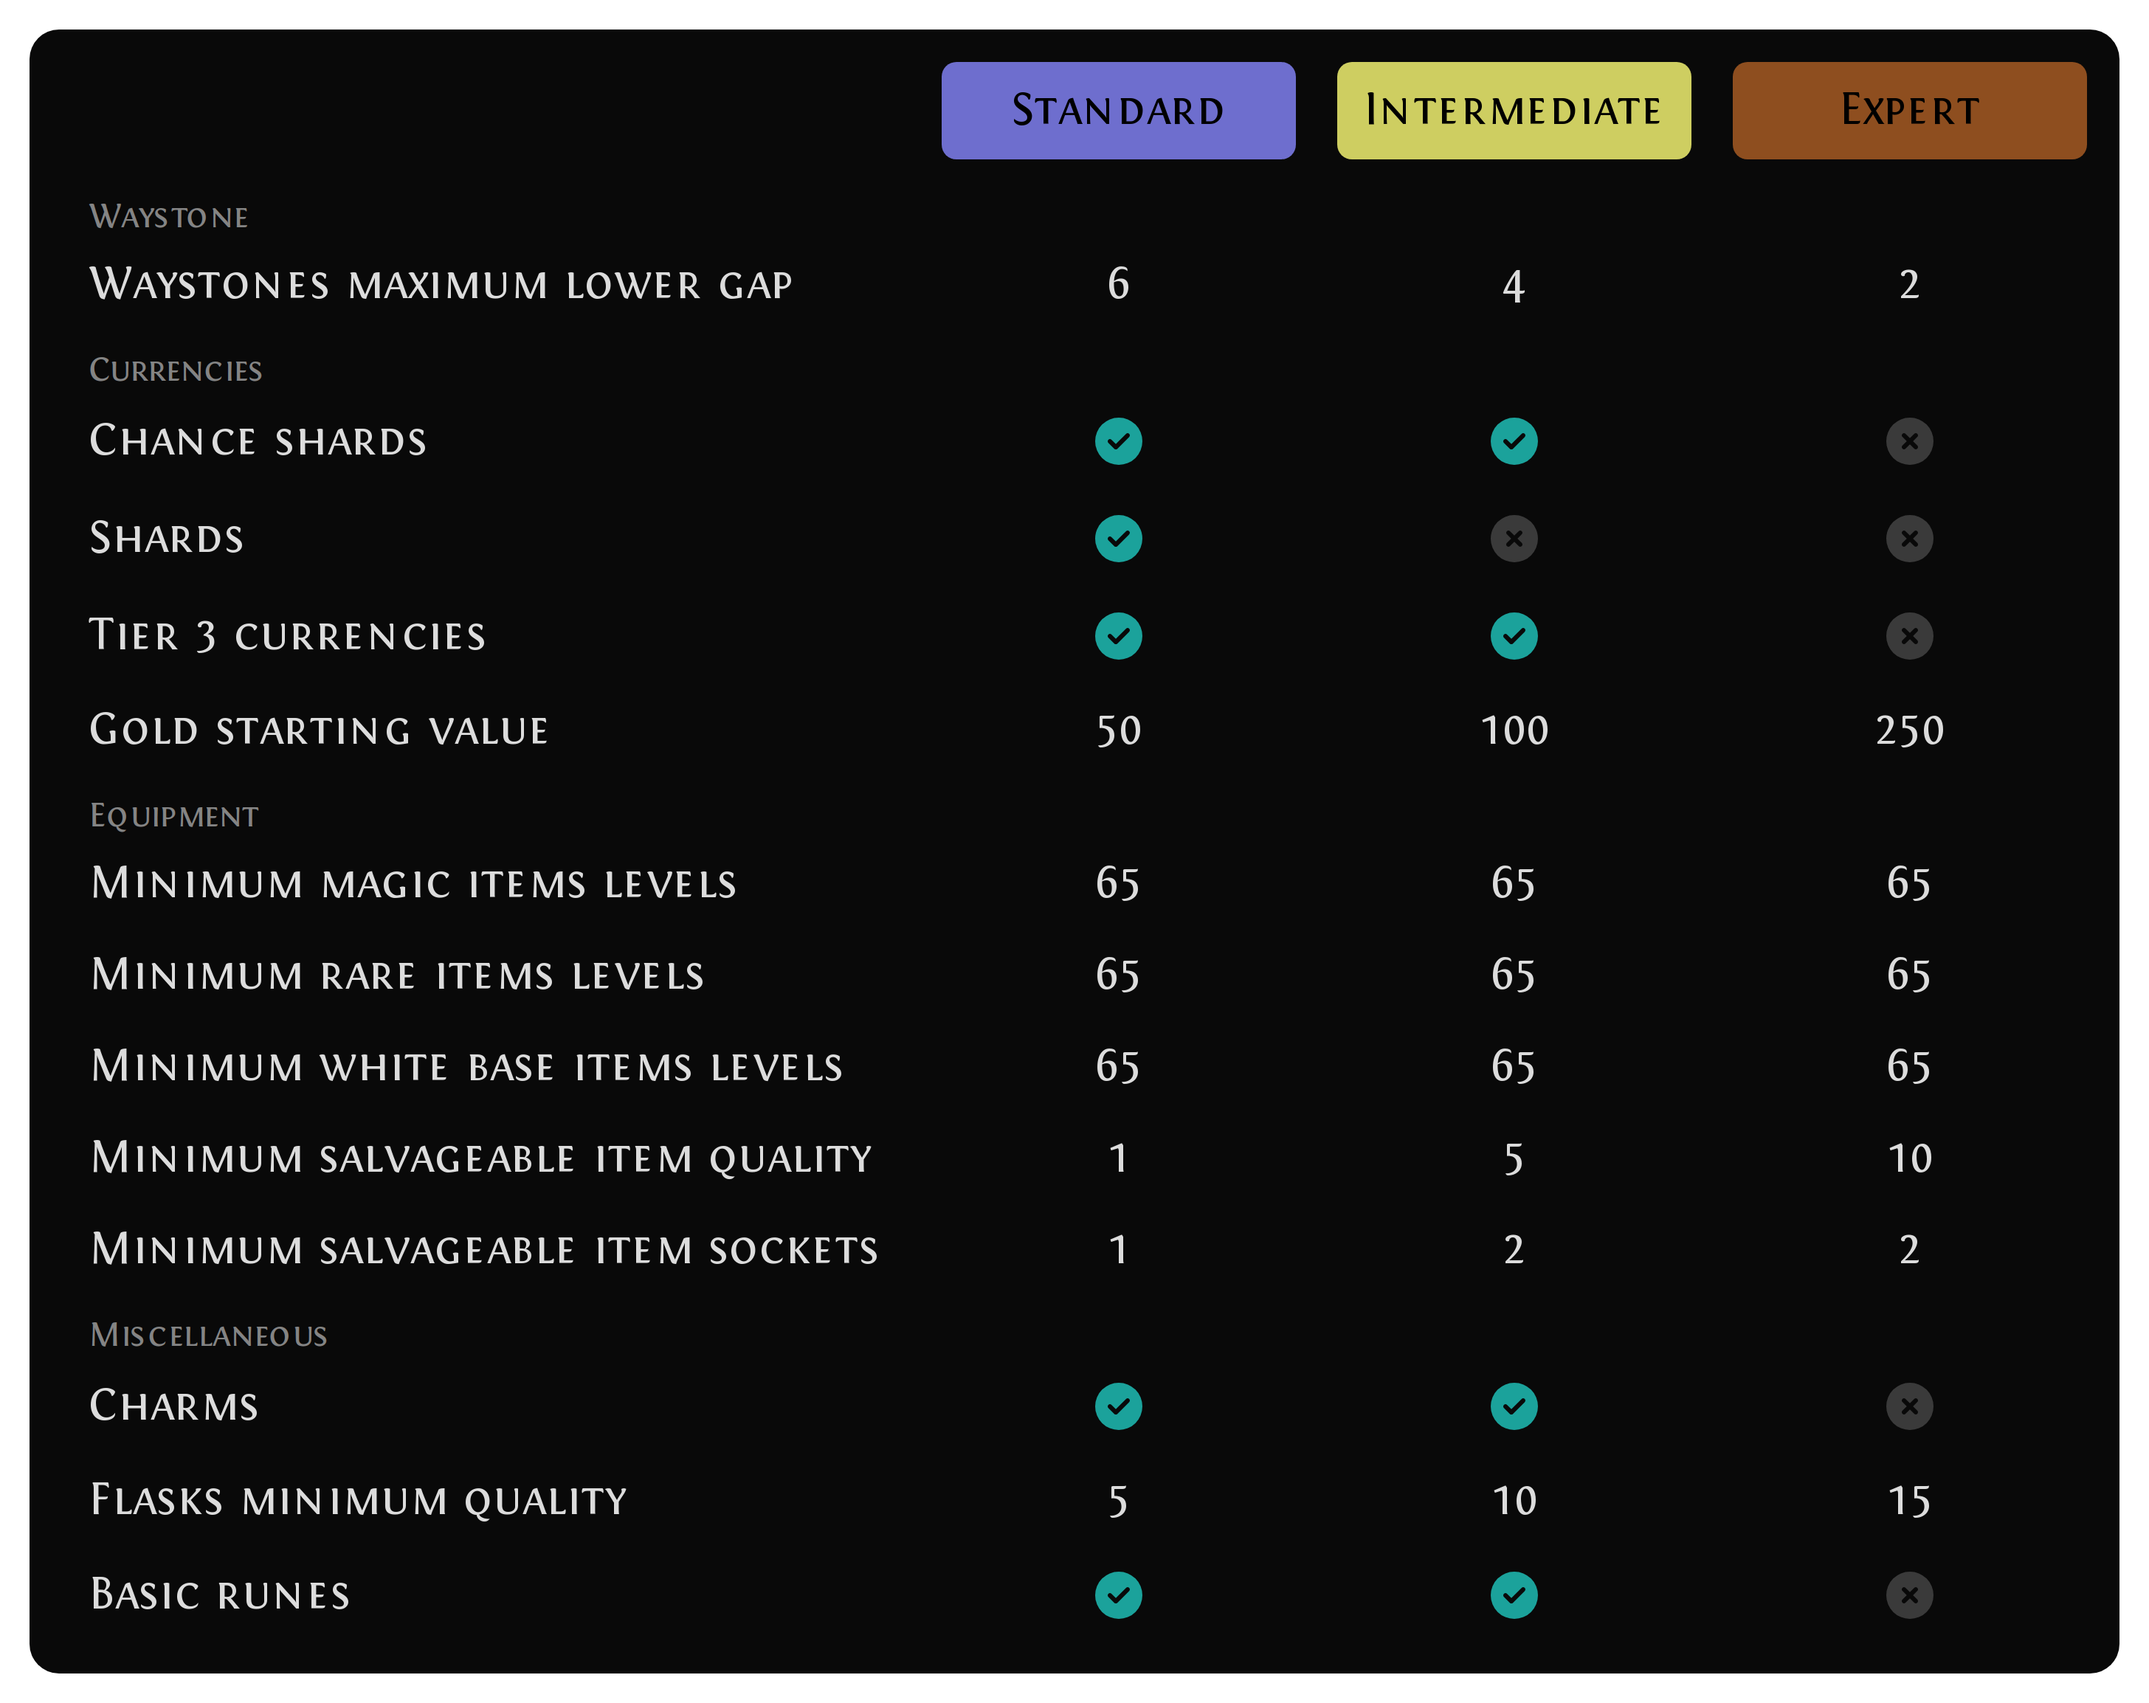
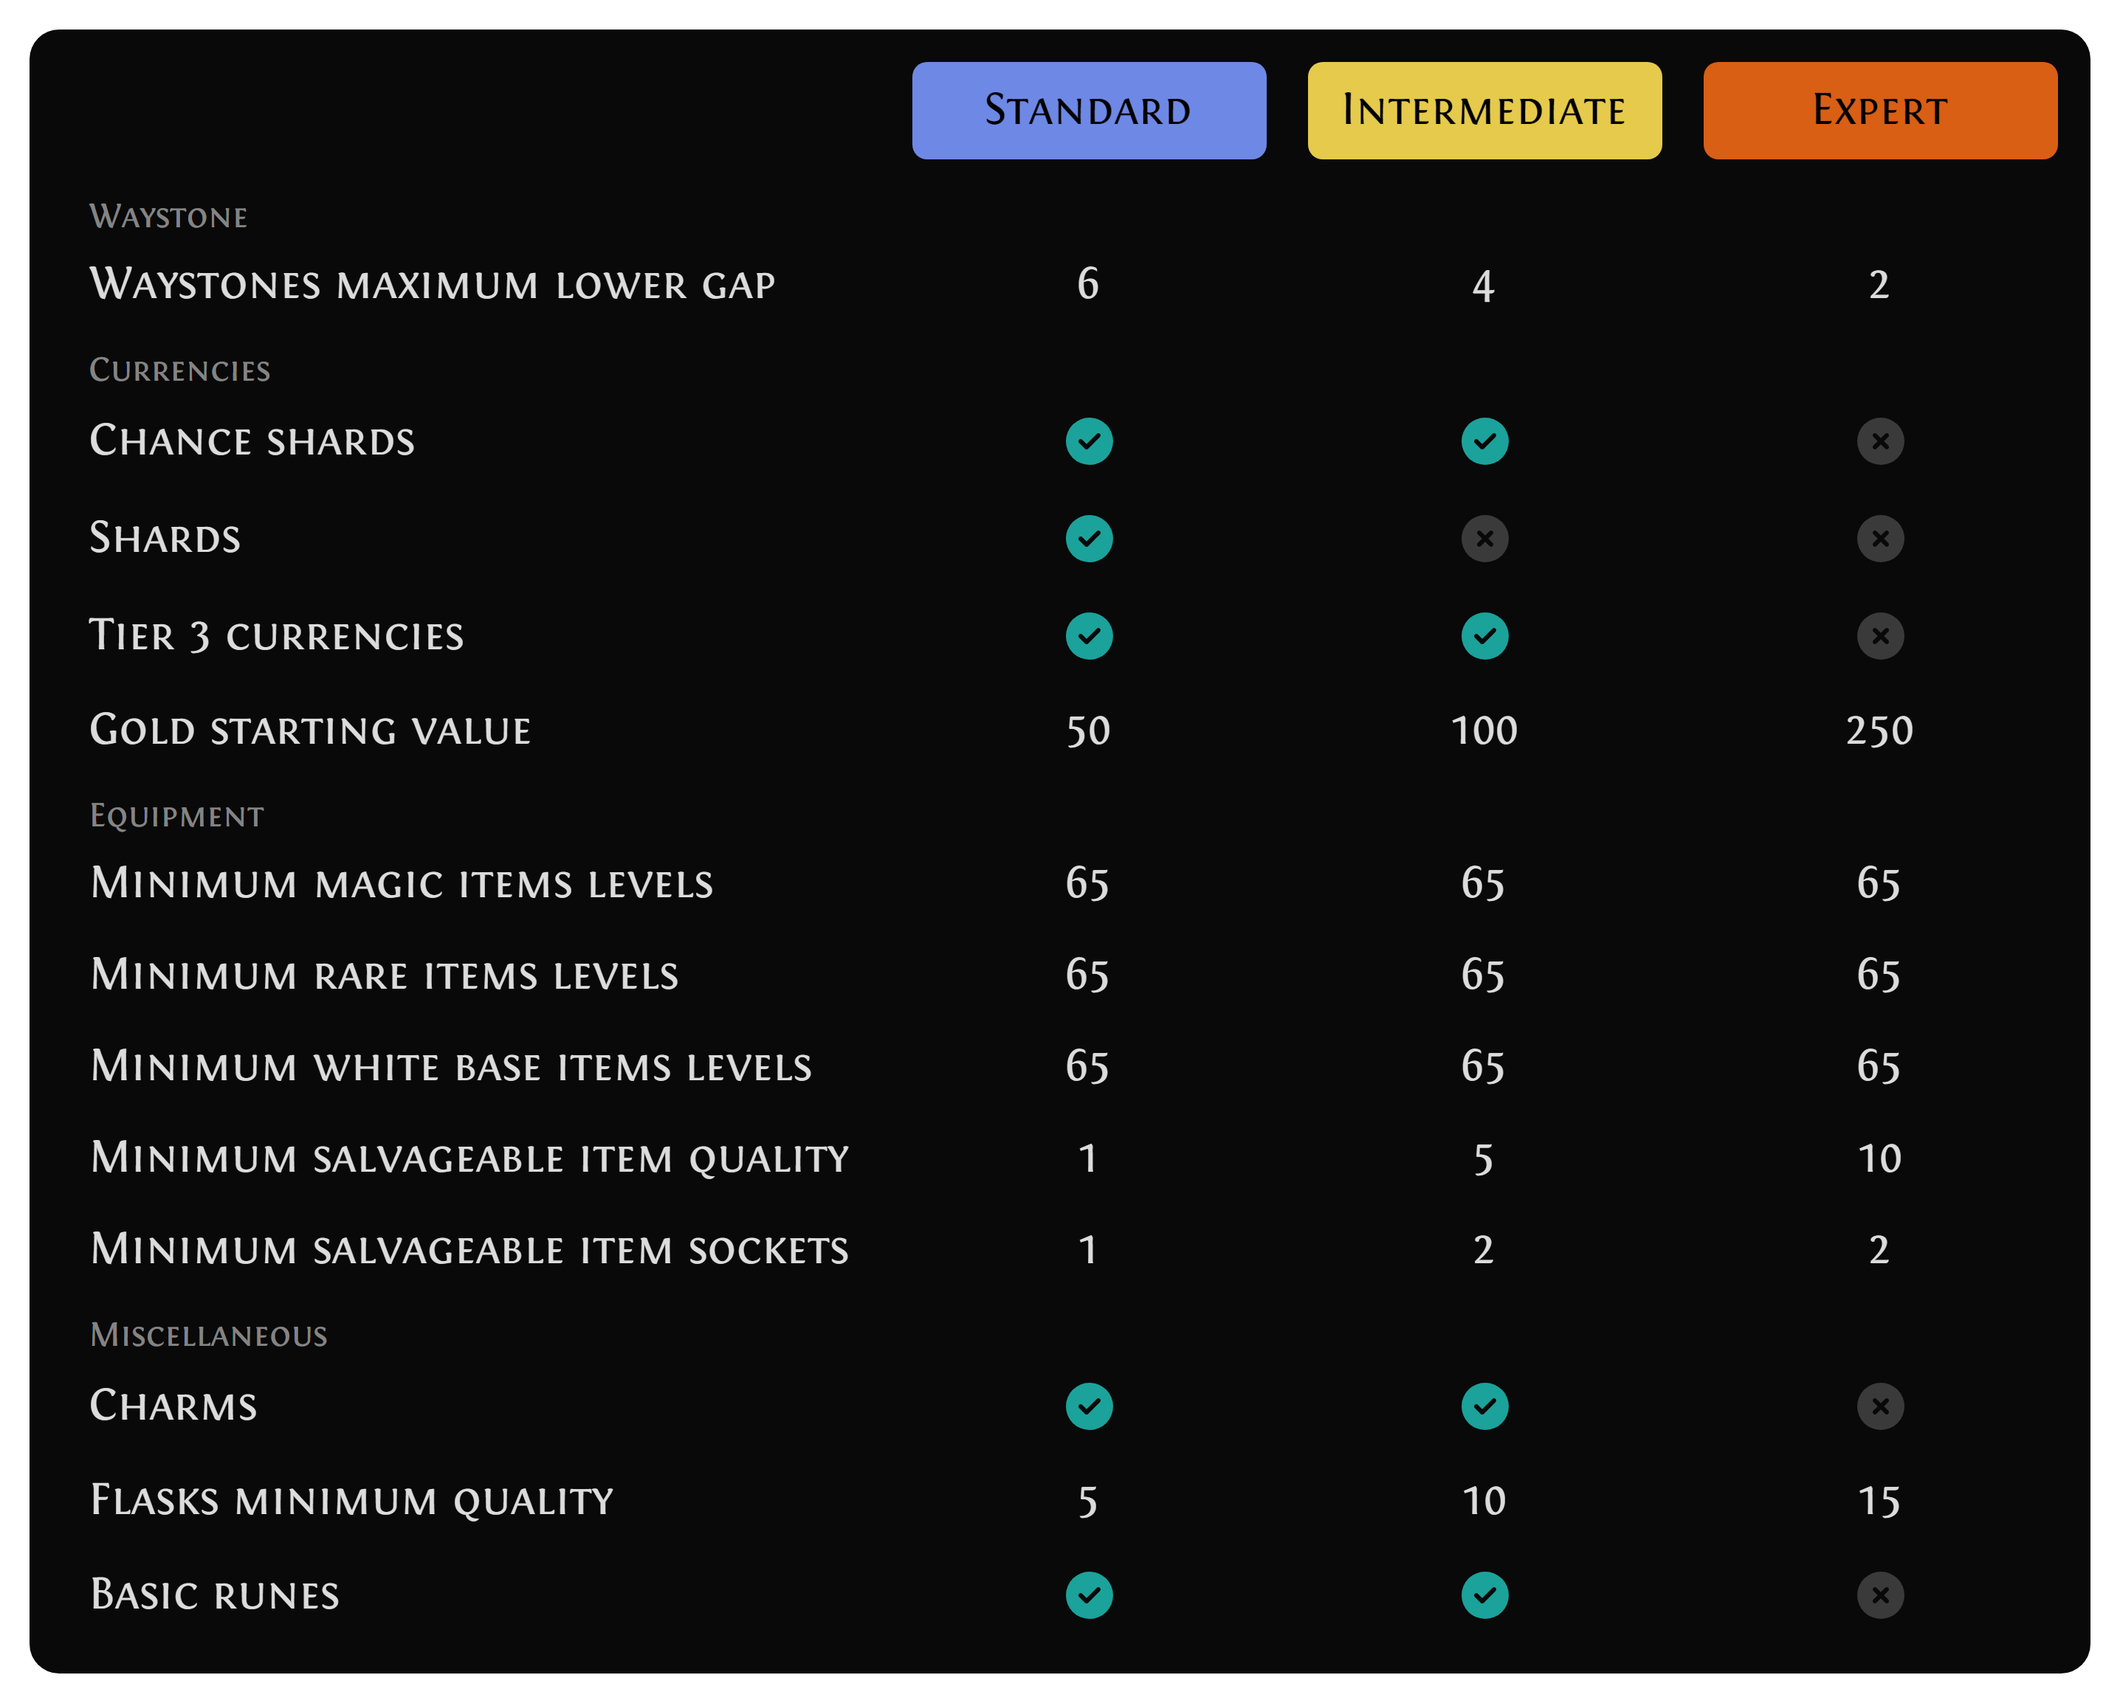
Comparison table colors updated

diff --git a/generator/social/filters-comparison/template.html b/generator/social/filters-comparison/template.html
@@ -41,14 +41,17 @@
         padding: 7px 0;
         margin-bottom: 5px;
       }
+      .title-1, .title-2, .title-3 {
+        opacity: 0.9;
+      }
       .title-1 {
-        background-color: rgba(136, 136, 255, 0.8);
+        background-color: #7a96fd;
       }
       .title-2 {
-        background-color: rgba(255, 255, 119, 0.8);
+        background-color: #fddf54;
       }
       .title-3 {
-        background-color: rgba(175, 96, 37, 0.8);
+        background-color: #ef6916;
       }
       .row-title {
         padding-top: 32px;
